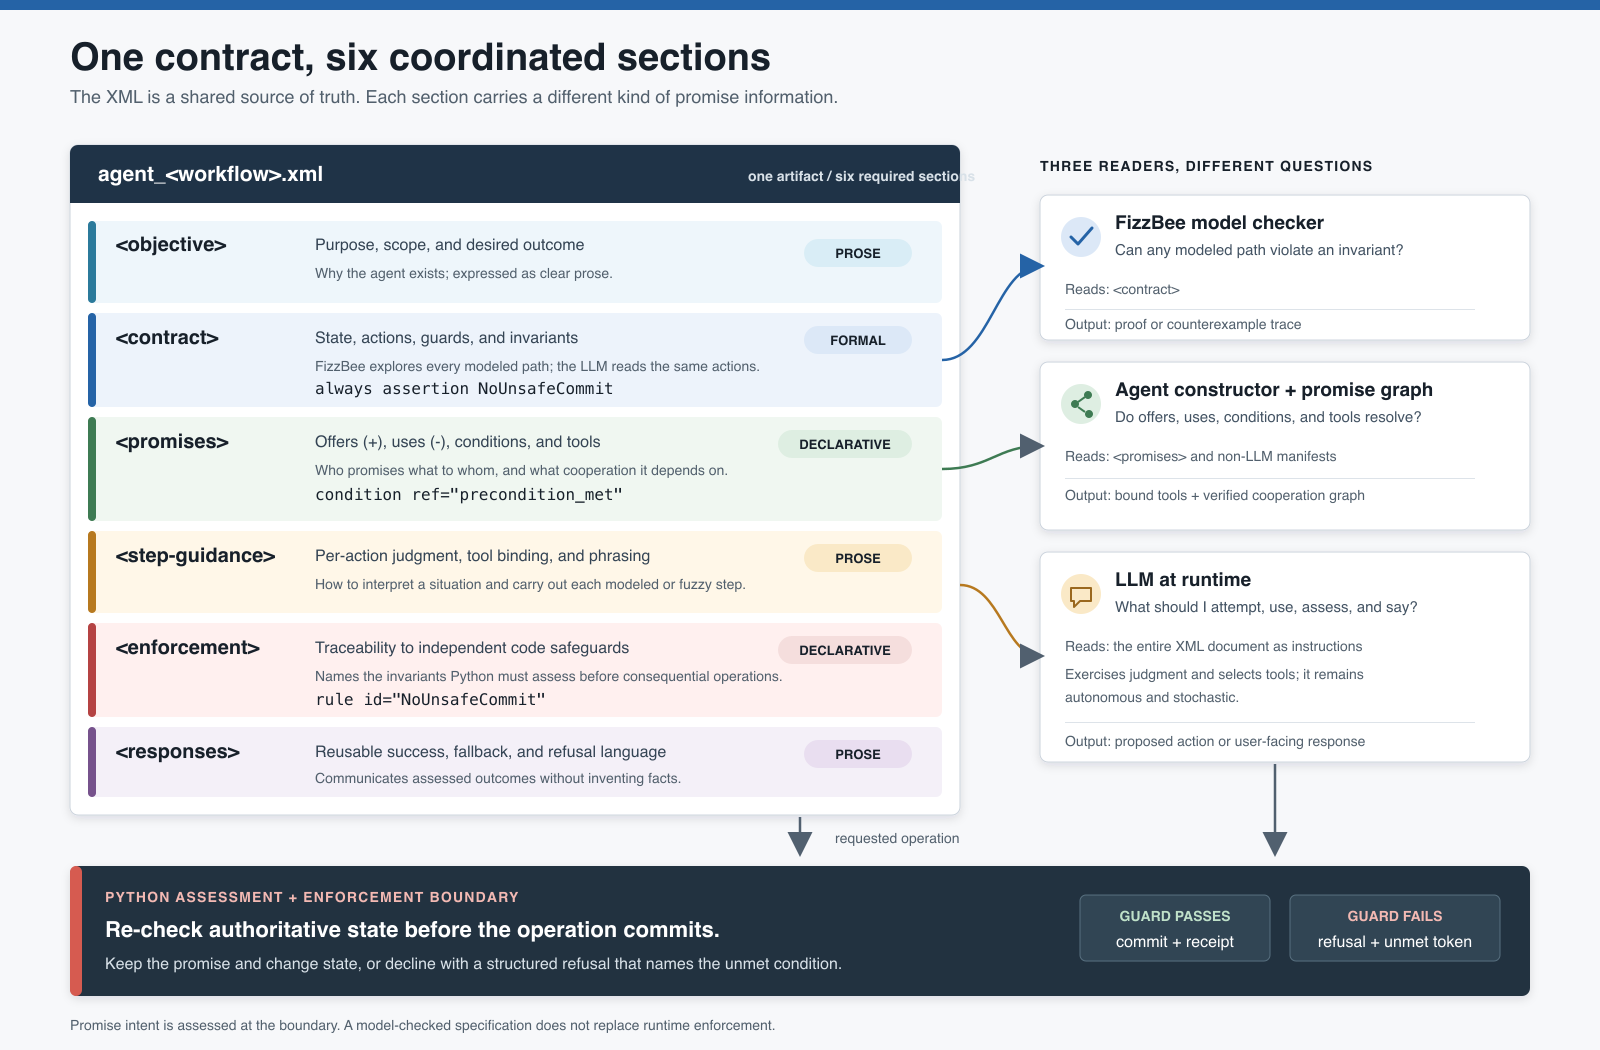
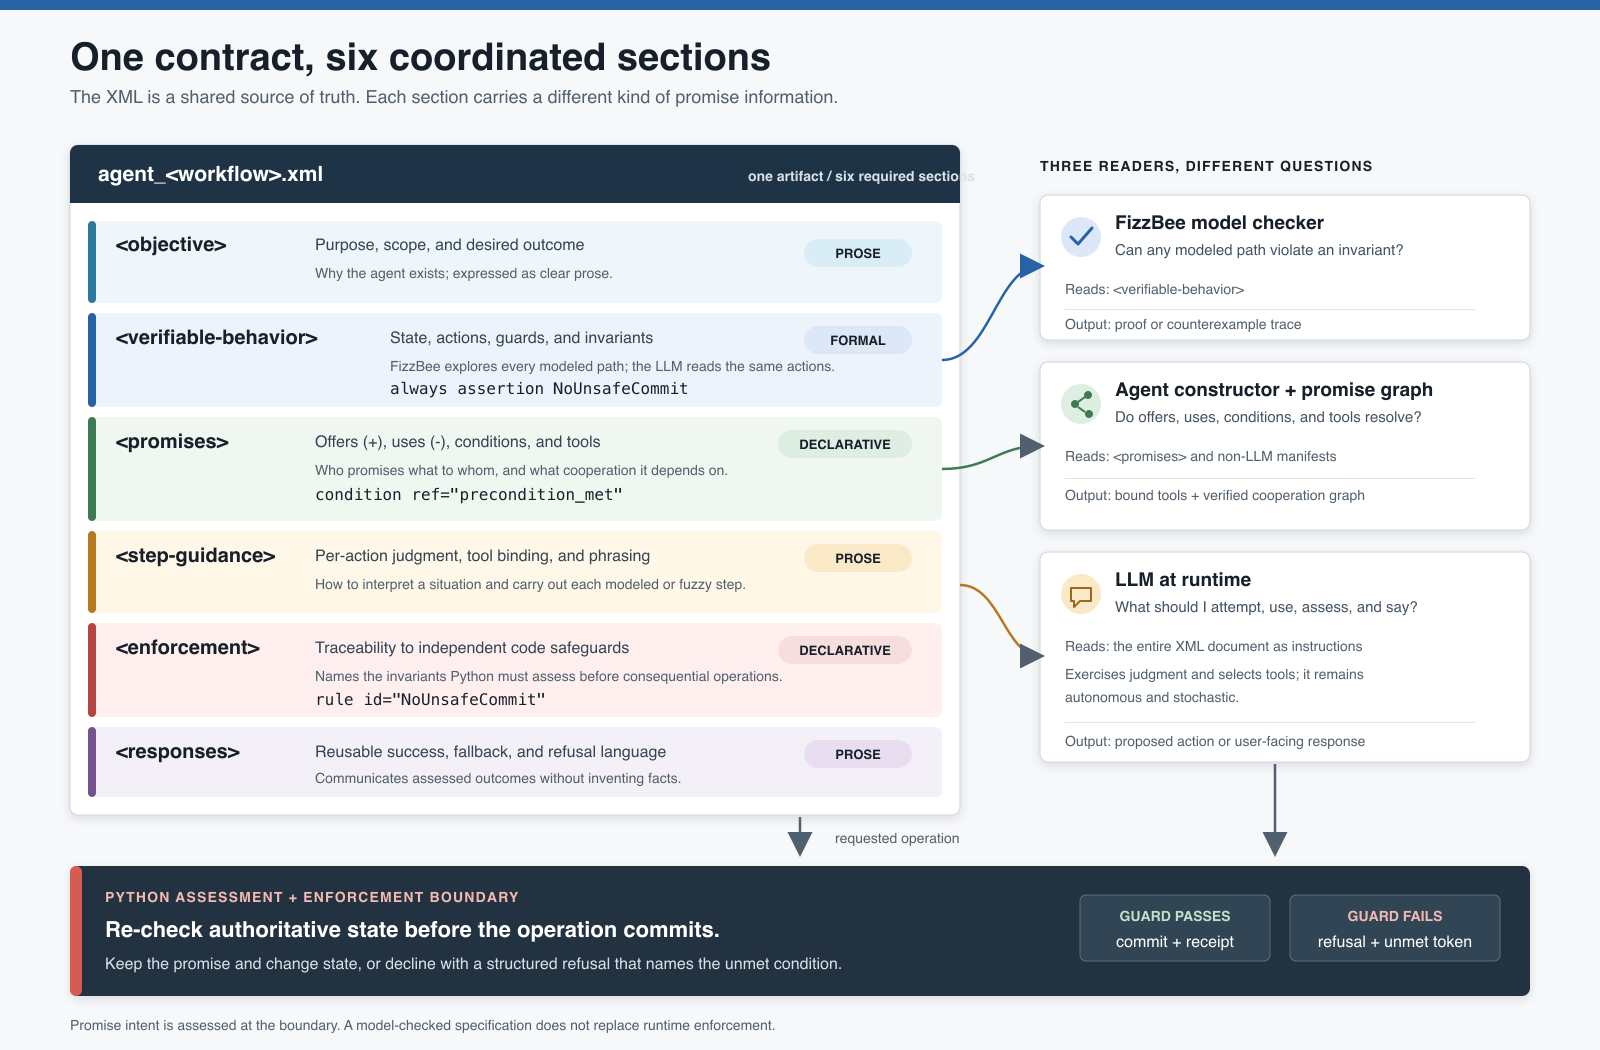
updates

Changed region(s): [[0.0938, 0.3048, 0.5, 0.3962], [0.7188, 0.2743, 0.75, 0.3048]]

diff --git a/examples/clinic-appointments/src/clinic/contracts/contract_doc.py b/examples/clinic-appointments/src/clinic/contracts/contract_doc.py
@@ -1,7 +1,7 @@
 """Load an ``agent_*.xml`` contract document and extract its FizzBee block.
 
 A contract document is one artifact read by three consumers: the model checker
-(the ``<contract>`` FizzBee block), the agent constructor (the ``<promises>``
+(the ``<verifiable-behavior>`` FizzBee block), the agent constructor (the ``<promises>``
 manifest), and the LLM at runtime (the whole document, verbatim). This module is
 the single definition of "load this contract", shared by the runtime, the
 verification scripts, and the tests so they never disagree.
@@ -60,12 +60,12 @@ def find_docs_dir(explicit: str | os.PathLike[str] | None = None) -> Path:
 
 
 def _extract_fizzbee(root: ET.Element) -> tuple[str, str]:
-    contract = root.find("contract")
-    if contract is None:
-        raise ValueError("contract document has no <contract> element")
-    fizzbee = contract.find("fizzbee")
+    verifiable_behavior = root.find("verifiable-behavior")
+    if verifiable_behavior is None:
+        raise ValueError("contract document has no <verifiable-behavior> element")
+    fizzbee = verifiable_behavior.find("fizzbee")
     if fizzbee is None:
-        raise ValueError("<contract> has no <fizzbee> element")
+        raise ValueError("<verifiable-behavior> has no <fizzbee> element")
     return (fizzbee.text or ""), fizzbee.get("mode", "")
 
 

diff --git a/examples/holy-grail-trials/src/grail/contracts/contract_doc.py b/examples/holy-grail-trials/src/grail/contracts/contract_doc.py
@@ -1,7 +1,7 @@
 """Load an ``agent_*.xml`` contract document and extract its FizzBee block.
 
 A contract document is one artifact read by three consumers: the model checker
-(the ``<contract>`` FizzBee block), the agent constructor (the ``<promises>``
+(the ``<verifiable-behavior>`` FizzBee block), the agent constructor (the ``<promises>``
 manifest), and the LLM at runtime (the whole document, verbatim). This module is
 the single definition of "load this contract", shared by the runtime, the
 verification scripts, and the tests so they never disagree.
@@ -60,12 +60,12 @@ def find_docs_dir(explicit: str | os.PathLike[str] | None = None) -> Path:
 
 
 def _extract_fizzbee(root: ET.Element) -> tuple[str, str]:
-    contract = root.find("contract")
-    if contract is None:
-        raise ValueError("contract document has no <contract> element")
-    fizzbee = contract.find("fizzbee")
+    verifiable_behavior = root.find("verifiable-behavior")
+    if verifiable_behavior is None:
+        raise ValueError("contract document has no <verifiable-behavior> element")
+    fizzbee = verifiable_behavior.find("fizzbee")
     if fizzbee is None:
-        raise ValueError("<contract> has no <fizzbee> element")
+        raise ValueError("<verifiable-behavior> has no <fizzbee> element")
     return (fizzbee.text or ""), fizzbee.get("mode", "")
 
 

diff --git a/skeleton/template/src/{{package_name}}/contracts/contract_doc.py b/skeleton/template/src/{{package_name}}/contracts/contract_doc.py
@@ -1,7 +1,7 @@
 """Load an ``agent_*.xml`` contract document and extract its FizzBee block.
 
 A contract document is one artifact read by three consumers: the model checker
-(the ``<contract>`` FizzBee block), the agent constructor (the ``<promises>``
+(the ``<verifiable-behavior>`` FizzBee block), the agent constructor (the ``<promises>``
 manifest), and the LLM at runtime (the whole document, verbatim). This module is
 the single definition of "load this contract", shared by the runtime, the
 verification scripts, and the tests so they never disagree.
@@ -60,12 +60,12 @@ def find_docs_dir(explicit: str | os.PathLike[str] | None = None) -> Path:
 
 
 def _extract_fizzbee(root: ET.Element) -> tuple[str, str]:
-    contract = root.find("contract")
-    if contract is None:
-        raise ValueError("contract document has no <contract> element")
-    fizzbee = contract.find("fizzbee")
+    verifiable_behavior = root.find("verifiable-behavior")
+    if verifiable_behavior is None:
+        raise ValueError("contract document has no <verifiable-behavior> element")
+    fizzbee = verifiable_behavior.find("fizzbee")
     if fizzbee is None:
-        raise ValueError("<contract> has no <fizzbee> element")
+        raise ValueError("<verifiable-behavior> has no <fizzbee> element")
     return (fizzbee.text or ""), fizzbee.get("mode", "")
 
 

diff --git a/examples/clinic-appointments/scripts/verify_fizzbee_contracts.py b/examples/clinic-appointments/scripts/verify_fizzbee_contracts.py
@@ -1,5 +1,5 @@
 #!/usr/bin/env python3
-"""Model-check the FizzBee contract embedded in every ``agent_*.xml`` document.
+"""Model-check the FizzBee behavior model embedded in every ``agent_*.xml`` document.
 
 For each contract this extracts the ``<fizzbee>`` block, writes it to a temp
 ``.fizz`` file, runs the ``fizz`` model checker, and reports PASS/FAIL. Exit code

diff --git a/examples/holy-grail-trials/scripts/verify_fizzbee_contracts.py b/examples/holy-grail-trials/scripts/verify_fizzbee_contracts.py
@@ -1,5 +1,5 @@
 #!/usr/bin/env python3
-"""Model-check the FizzBee contract embedded in every ``agent_*.xml`` document.
+"""Model-check the FizzBee behavior model embedded in every ``agent_*.xml`` document.
 
 For each contract this extracts the ``<fizzbee>`` block, writes it to a temp
 ``.fizz`` file, runs the ``fizz`` model checker, and reports PASS/FAIL. Exit code

diff --git a/docs/contract-assessment/render_code_snippets.py b/docs/contract-assessment/render_code_snippets.py
@@ -102,7 +102,7 @@ if __name__ == "__main__":
     )
     render(
         "contract-intent-fizzbee.svg",
-        "<contract>",
+        "<verifiable-behavior>",
         FIZZBEE_CODE,
         width=58,
         lexer="python",

diff --git a/docs/contract-assessment/README.md b/docs/contract-assessment/README.md
@@ -10,8 +10,9 @@ use different descriptive registers, and their connections are expressed through
 several kinds of identifiers. The figures in this guide provide two views of the same
 architecture:
 
-1. **The overview** explains the responsibility of each contract section, which part
-   of the system consumes it, and where that happens in the development lifecycle.
+1. **The overview** explains the responsibility of each section in the agent
+   contract, which part of the system consumes it, and where that happens in the
+   development lifecycle.
 2. **The trace** follows one generic safety promise through Design, Build, and Run:
    from the XML model to generated Python enforcement, executable test evidence, and
    runtime assessment.
@@ -40,7 +41,7 @@ each consequential operation against authoritative state.
 
 ## Figure 1: one contract, six coordinated sections
 
-[![Overview of the six contract sections and their consumers](contract-assessment-overview.png)](contract-assessment-overview.svg)
+[![Overview of the six sections in an agent contract and their consumers](contract-assessment-overview.png)](contract-assessment-overview.svg)
 
 The figure isolates the kit's three direct machine readers: the model checker, the
 agent constructor, and the runtime LLM. The lifecycle map above adds the AI coding
@@ -51,10 +52,14 @@ The six sections are not six versions of the same information. Each carries the 
 of statement best suited to its purpose. Every section is authored during Design; the
 **Used in** column identifies the later stages where its contents are actively consumed.
 
+Here, **agent contract** names the entire XML artifact. The
+`<verifiable-behavior>` section names only the behavior model that can be exhaustively
+checked, avoiding a second, nested use of the word *contract*.
+
 | Section | Primary question | Register | Principal consumer | Used in |
 | --- | --- | --- | --- | --- |
 | `<objective>` | What is this agent for? | Prose | Coding assistant and LLM | Build, Run |
-| `<contract>` | Which states are reachable, and what must always hold? | Formal FizzBee | Model checker, coding assistant, and LLM | Design, Build, Run |
+| `<verifiable-behavior>` | Which states are reachable, and what must always hold? | Formal FizzBee | Model checker, coding assistant, and LLM | Design, Build, Run |
 | `<promises>` | What does this agent offer, use, and depend on? | Declarative Promise Theory | Promise-graph verifier, coding assistant, constructor, and LLM | Design, Build, Run |
 | `<step-guidance>` | How should each action be judged and carried out? | Prose with action bindings | Coding assistant and LLM | Build, Run |
 | `<enforcement>` | Which invariants have independent code safeguards? | Declarative traceability | Coding assistant, reviewers, and LLM | Build, Run |

diff --git a/docs/why-promise-driven-agents.md b/docs/why-promise-driven-agents.md
@@ -143,7 +143,7 @@ Each LLM agent's *entire* instruction set is a single XML document. Its shape is
 ```
 <agent-instructions workflow="…" version="…">
   <objective>       — what this agent is for (natural language)
-  <contract>        — the FizzBee state machine: state, actions, guards, invariants
+  <verifiable-behavior> — the FizzBee state machine: state, actions, guards, invariants
   <promises>        — the Promise Theory manifest: description, tools, +offers, −uses
   <step-guidance>   — per-action prose: LLM judgment, tool bindings, phrasing
   <enforcement>     — invariants the server enforces in code, independent of the LLM
@@ -159,7 +159,7 @@ flowchart TB
     MC["Model checker (fizz)<br/>proves invariants over<br/>every reachable state"]
     CON["Agent construction<br/>description, bound tools,<br/>promise graph"]
     LLM["LLM at runtime<br/>operating instructions"]
-    DOC -->|"the contract section"| MC
+    DOC -->|"the verifiable-behavior section"| MC
     DOC -->|"the promises section"| CON
     DOC -->|"the whole document, verbatim"| LLM
     MC -.->|"pre-assessment:<br/>promise is self-consistent"| DOC
@@ -167,9 +167,9 @@ flowchart TB
 
 This "one artifact, three readers" property is the distinctive engineering feature. In the more common alternatives — a LangGraph state machine plus a separate prompt, say — the machine and the instructions are *different artifacts that drift*. Here they are the same bytes.
 
-## 3.2 The `<contract>`: a model-checkable state machine
+## 3.2 `<verifiable-behavior>`: the model-checkable state machine
 
-The center of gravity is `<contract>`, a block of pure [FizzBee](https://fizzbee.io) — a specification language in the TLA+/PlusCal lineage[^lamport] with Python-like syntax. Here is the verification rule from the clinic orchestrator, verbatim from [`agent_clinic_orchestrator.xml`](../examples/clinic-appointments/agent_contracts/agent_clinic_orchestrator.xml):
+The model-checkable center of gravity is `<verifiable-behavior>`, a block of pure [FizzBee](https://fizzbee.io) — a specification language in the TLA+/PlusCal lineage[^lamport] with Python-like syntax. Here is the verification rule from the clinic orchestrator, verbatim from [`agent_clinic_orchestrator.xml`](../examples/clinic-appointments/agent_contracts/agent_clinic_orchestrator.xml):
 
 ```python
 atomic action VerifyPatient:

diff --git a/examples/clinic-appointments/.claude/skills/authoring-agent-contracts/SKILL.md b/examples/clinic-appointments/.claude/skills/authoring-agent-contracts/SKILL.md
@@ -32,7 +32,7 @@ least self-consistent before anyone relies on it.
 The governing discipline follows directly:
 
 > **Formalize structure; leave judgment to prose.**
-> Ordering, mutual exclusion, and safety invariants go in the FizzBee `<contract>`.
+> Ordering, mutual exclusion, and safety invariants go in `<verifiable-behavior>`.
 > Intent classification, tool choice, and wording go in prose (`<step-guidance>`,
 > `<responses>`). Don't try to formalize the fuzzy parts — you'll fail. Don't leave
 > the structural parts to prose — they'll drift.
@@ -41,7 +41,7 @@ The governing discipline follows directly:
 
 | Type | File | Has FizzBee? | Validated by | For |
 | --- | --- | --- | --- | --- |
-| **LLM agent** | `agent_<name>.xml` | yes (`<contract>`) | `schema/agent-contract.xsd` | a stochastic, conversational agent with multi-step state |
+| **LLM agent** | `agent_<name>.xml` | yes (`<verifiable-behavior>`) | `schema/agent-contract.xsd` | a stochastic, conversational agent with multi-step state |
 | **Non-LLM agent** | `manifest_<name>.xml` | no | `schema/agent-manifest.xsd` | a deterministic service, shared-state store, or external boundary |
 
 A non-LLM agent has no state machine to model-check, but it is still a full
@@ -69,7 +69,7 @@ For an LLM agent (`agent_*.xml`), all six are required:
 | Section | Holds | Register |
 | --- | --- | --- |
 | `<objective>` | what the agent is for | prose |
-| `<contract>` | the FizzBee state machine: state, guards, invariants | formal |
+| `<verifiable-behavior>` | states, actions, guards, invariants | formal/verifiable |
 | `<promises>` | description, tools, `+offers`, `−uses` | declarative |
 | `<step-guidance>` | per-action judgment, tool bindings, phrasing | prose |
 | `<enforcement>` | the invariants your code enforces independently | declarative |
@@ -77,7 +77,7 @@ For an LLM agent (`agent_*.xml`), all six are required:
 
 A manifest is just `<description>` + `<promises>`.
 
-### 3. Write the FizzBee `<contract>`
+### 3. Write `<verifiable-behavior>`
 
 This skill assumes you can write FizzBee. For the language itself, install
 FizzBee's own reference skills (`fizz install-skills`) — don't reinvent that here.

diff --git a/examples/holy-grail-trials/.claude/skills/authoring-agent-contracts/SKILL.md b/examples/holy-grail-trials/.claude/skills/authoring-agent-contracts/SKILL.md
@@ -32,7 +32,7 @@ least self-consistent before anyone relies on it.
 The governing discipline follows directly:
 
 > **Formalize structure; leave judgment to prose.**
-> Ordering, mutual exclusion, and safety invariants go in the FizzBee `<contract>`.
+> Ordering, mutual exclusion, and safety invariants go in `<verifiable-behavior>`.
 > Intent classification, tool choice, and wording go in prose (`<step-guidance>`,
 > `<responses>`). Don't try to formalize the fuzzy parts — you'll fail. Don't leave
 > the structural parts to prose — they'll drift.
@@ -41,7 +41,7 @@ The governing discipline follows directly:
 
 | Type | File | Has FizzBee? | Validated by | For |
 | --- | --- | --- | --- | --- |
-| **LLM agent** | `agent_<name>.xml` | yes (`<contract>`) | `schema/agent-contract.xsd` | a stochastic, conversational agent with multi-step state |
+| **LLM agent** | `agent_<name>.xml` | yes (`<verifiable-behavior>`) | `schema/agent-contract.xsd` | a stochastic, conversational agent with multi-step state |
 | **Non-LLM agent** | `manifest_<name>.xml` | no | `schema/agent-manifest.xsd` | a deterministic service, shared-state store, or external boundary |
 
 A non-LLM agent has no state machine to model-check, but it is still a full
@@ -69,7 +69,7 @@ For an LLM agent (`agent_*.xml`), all six are required:
 | Section | Holds | Register |
 | --- | --- | --- |
 | `<objective>` | what the agent is for | prose |
-| `<contract>` | the FizzBee state machine: state, guards, invariants | formal |
+| `<verifiable-behavior>` | states, actions, guards, invariants | formal/verifiable |
 | `<promises>` | description, tools, `+offers`, `−uses` | declarative |
 | `<step-guidance>` | per-action judgment, tool bindings, phrasing | prose |
 | `<enforcement>` | the invariants your code enforces independently | declarative |
@@ -77,7 +77,7 @@ For an LLM agent (`agent_*.xml`), all six are required:
 
 A manifest is just `<description>` + `<promises>`.
 
-### 3. Write the FizzBee `<contract>`
+### 3. Write `<verifiable-behavior>`
 
 This skill assumes you can write FizzBee. For the language itself, install
 FizzBee's own reference skills (`fizz install-skills`) — don't reinvent that here.

diff --git a/skeleton/template/.claude/skills/authoring-agent-contracts/SKILL.md b/skeleton/template/.claude/skills/authoring-agent-contracts/SKILL.md
@@ -32,7 +32,7 @@ least self-consistent before anyone relies on it.
 The governing discipline follows directly:
 
 > **Formalize structure; leave judgment to prose.**
-> Ordering, mutual exclusion, and safety invariants go in the FizzBee `<contract>`.
+> Ordering, mutual exclusion, and safety invariants go in `<verifiable-behavior>`.
 > Intent classification, tool choice, and wording go in prose (`<step-guidance>`,
 > `<responses>`). Don't try to formalize the fuzzy parts — you'll fail. Don't leave
 > the structural parts to prose — they'll drift.
@@ -41,7 +41,7 @@ The governing discipline follows directly:
 
 | Type | File | Has FizzBee? | Validated by | For |
 | --- | --- | --- | --- | --- |
-| **LLM agent** | `agent_<name>.xml` | yes (`<contract>`) | `schema/agent-contract.xsd` | a stochastic, conversational agent with multi-step state |
+| **LLM agent** | `agent_<name>.xml` | yes (`<verifiable-behavior>`) | `schema/agent-contract.xsd` | a stochastic, conversational agent with multi-step state |
 | **Non-LLM agent** | `manifest_<name>.xml` | no | `schema/agent-manifest.xsd` | a deterministic service, shared-state store, or external boundary |
 
 A non-LLM agent has no state machine to model-check, but it is still a full
@@ -69,7 +69,7 @@ For an LLM agent (`agent_*.xml`), all six are required:
 | Section | Holds | Register |
 | --- | --- | --- |
 | `<objective>` | what the agent is for | prose |
-| `<contract>` | the FizzBee state machine: state, guards, invariants | formal |
+| `<verifiable-behavior>` | states, actions, guards, invariants | formal/verifiable |
 | `<promises>` | description, tools, `+offers`, `−uses` | declarative |
 | `<step-guidance>` | per-action judgment, tool bindings, phrasing | prose |
 | `<enforcement>` | the invariants your code enforces independently | declarative |
@@ -77,7 +77,7 @@ For an LLM agent (`agent_*.xml`), all six are required:
 
 A manifest is just `<description>` + `<promises>`.
 
-### 3. Write the FizzBee `<contract>`
+### 3. Write `<verifiable-behavior>`
 
 This skill assumes you can write FizzBee. For the language itself, install
 FizzBee's own reference skills (`fizz install-skills`) — don't reinvent that here.

diff --git a/skills/authoring-agent-contracts/SKILL.md b/skills/authoring-agent-contracts/SKILL.md
@@ -32,7 +32,7 @@ least self-consistent before anyone relies on it.
 The governing discipline follows directly:
 
 > **Formalize structure; leave judgment to prose.**
-> Ordering, mutual exclusion, and safety invariants go in the FizzBee `<contract>`.
+> Ordering, mutual exclusion, and safety invariants go in `<verifiable-behavior>`.
 > Intent classification, tool choice, and wording go in prose (`<step-guidance>`,
 > `<responses>`). Don't try to formalize the fuzzy parts — you'll fail. Don't leave
 > the structural parts to prose — they'll drift.
@@ -41,7 +41,7 @@ The governing discipline follows directly:
 
 | Type | File | Has FizzBee? | Validated by | For |
 | --- | --- | --- | --- | --- |
-| **LLM agent** | `agent_<name>.xml` | yes (`<contract>`) | `schema/agent-contract.xsd` | a stochastic, conversational agent with multi-step state |
+| **LLM agent** | `agent_<name>.xml` | yes (`<verifiable-behavior>`) | `schema/agent-contract.xsd` | a stochastic, conversational agent with multi-step state |
 | **Non-LLM agent** | `manifest_<name>.xml` | no | `schema/agent-manifest.xsd` | a deterministic service, shared-state store, or external boundary |
 
 A non-LLM agent has no state machine to model-check, but it is still a full
@@ -69,7 +69,7 @@ For an LLM agent (`agent_*.xml`), all six are required:
 | Section | Holds | Register |
 | --- | --- | --- |
 | `<objective>` | what the agent is for | prose |
-| `<contract>` | the FizzBee state machine: state, guards, invariants | formal |
+| `<verifiable-behavior>` | states, actions, guards, invariants | formal/verifiable |
 | `<promises>` | description, tools, `+offers`, `−uses` | declarative |
 | `<step-guidance>` | per-action judgment, tool bindings, phrasing | prose |
 | `<enforcement>` | the invariants your code enforces independently | declarative |
@@ -77,7 +77,7 @@ For an LLM agent (`agent_*.xml`), all six are required:
 
 A manifest is just `<description>` + `<promises>`.
 
-### 3. Write the FizzBee `<contract>`
+### 3. Write `<verifiable-behavior>`
 
 This skill assumes you can write FizzBee. For the language itself, install
 FizzBee's own reference skills (`fizz install-skills`) — don't reinvent that here.
